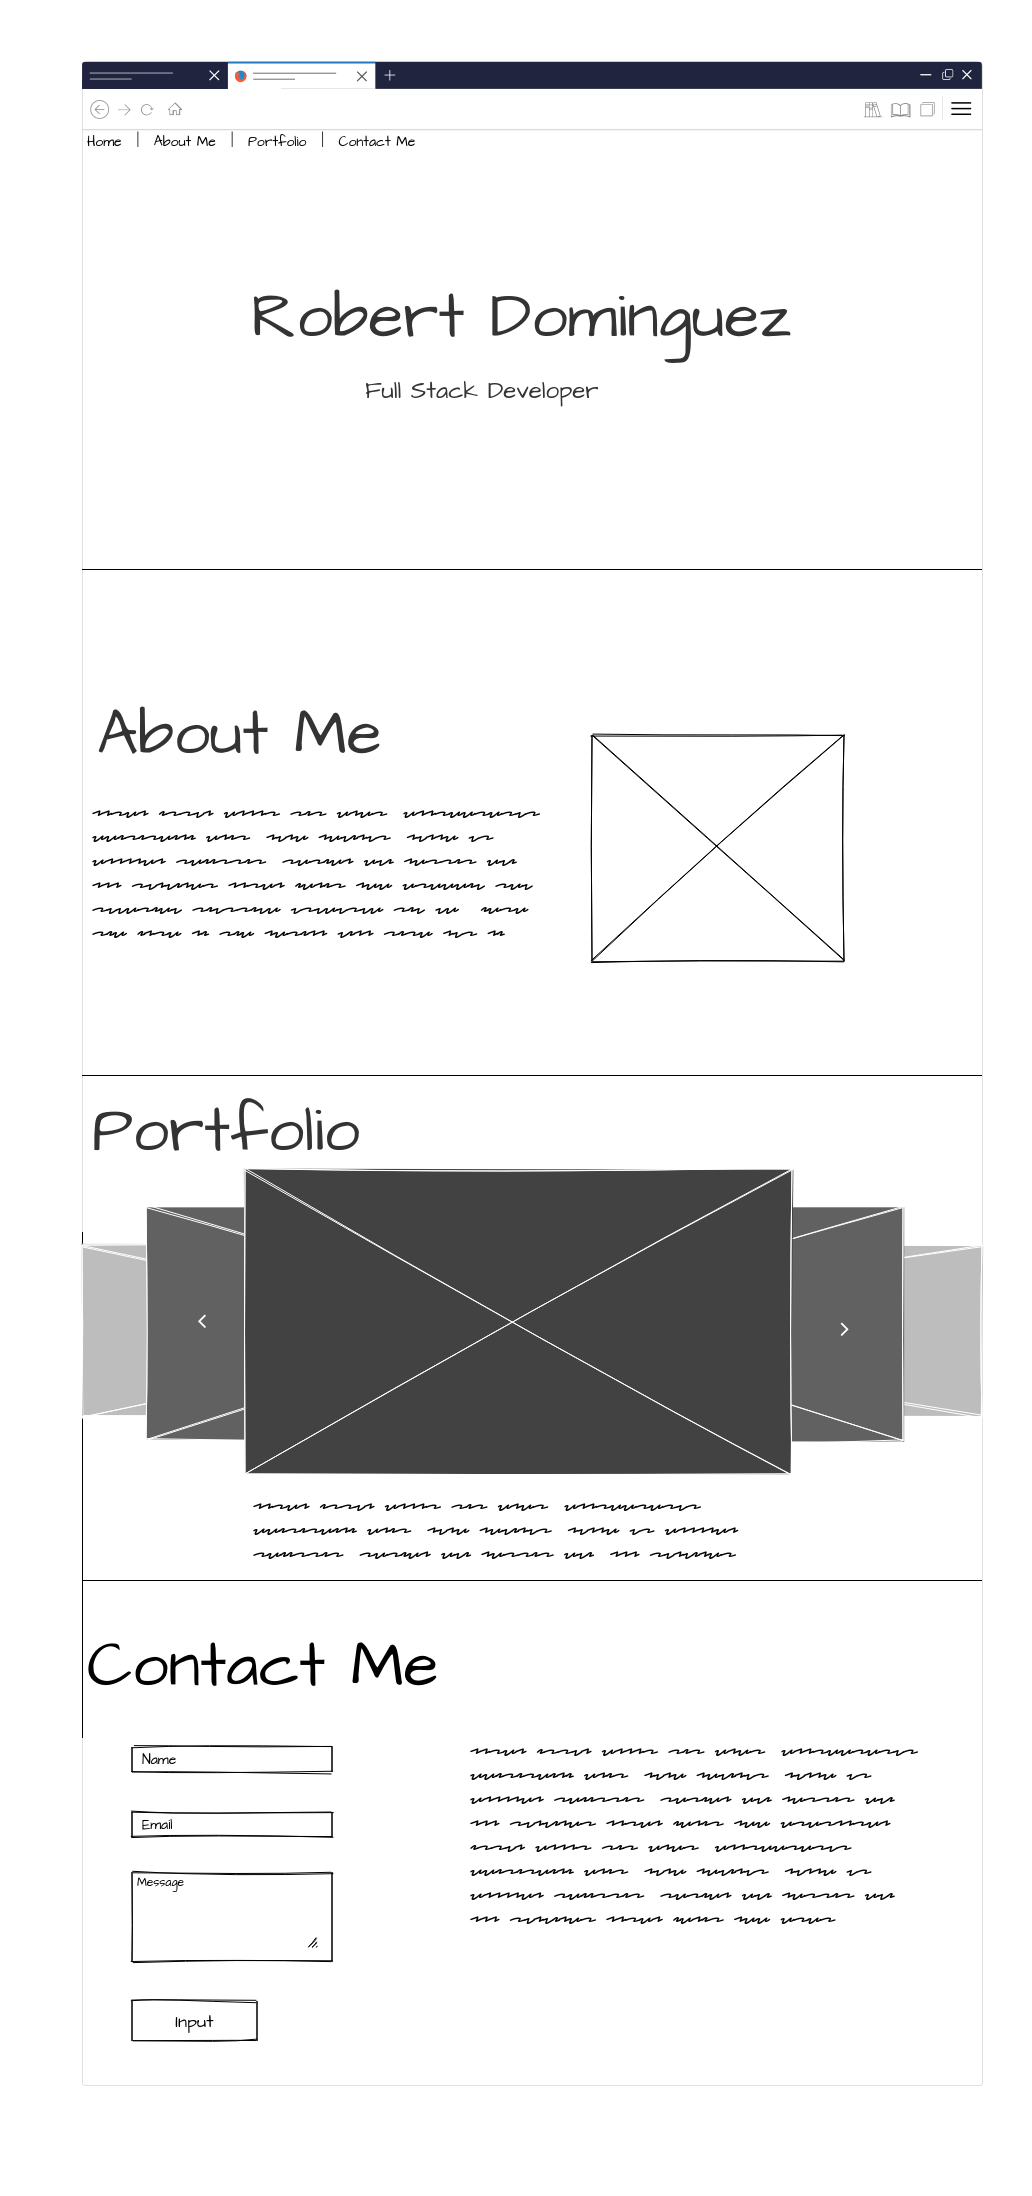
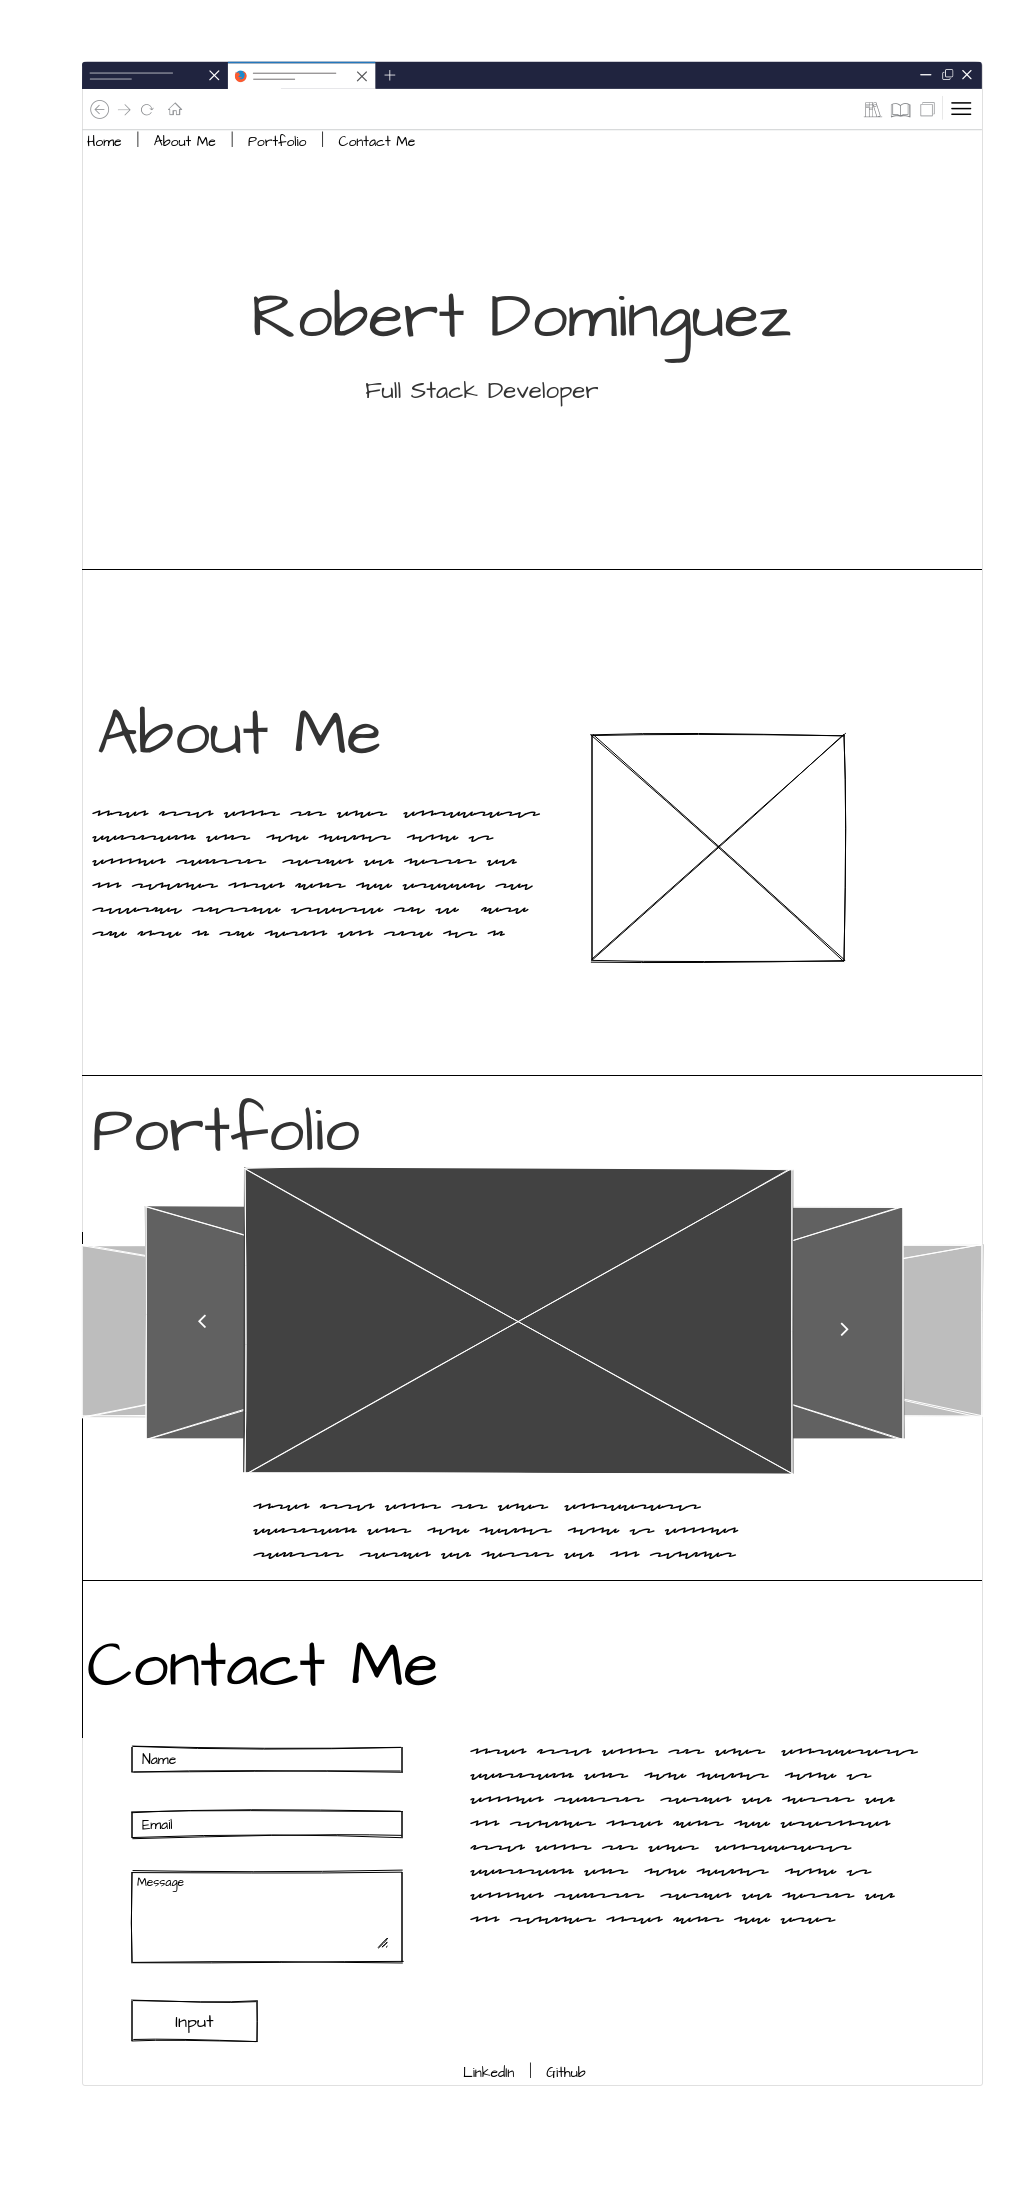
Fixed the images and did some writing.

diff --git a/public_html/documentation/milestone-2.php b/public_html/documentation/milestone-2.php
@@ -8,8 +8,9 @@
 		<div class="Content Strategy">
 			<h1>Content Strategy</h1>
 			<p>
-				My site will be multiple pages, it will have one main page and links to other pages that will host whatever
-				projects that I will want to host on the site. The main page will consist of the following sections:
+				My site will be one page. The one main page will offer information about me, a selection of programming
+				projects that I will want to host on the site, and a form to allow people to contact me. The main page will
+				consist of the following sections:
 			</p>
 			<p>
 				<strong>Welcome: </strong>A brief one-line introduction that clearly states my name and role as a Fullstack
@@ -23,14 +24,16 @@
 				that I am a good personality fit for.
 			</p>
 			<p>
-				<strong>Portfolio: </strong>I want this to be an animated, responsive image gallery containing 4-6 examples
-				of my best work. Gallery pop-up will include my role and contributions to each project, with iconography to
-				represent the technology used.
+				<strong>Portfolio: </strong>I want this to be an responsive gallery containing 2-4 programming projects that
+				I am the most confident in. To the left and right of each project will be an option to allow the user to
+				switch to another project. Under the projects will be text that changes with each project. The text will
+				detail all technologies that I used, languages that made up the project, and challenges and hurdles that I
+				overcame to complete the project.
 			</p>
 			<p>
 				<strong>Contact: </strong>This section will contain a simple contact form, my professional email address,
-				and additional links to my professional social media profiles: LinkedIn, Twitter, GitHub, Dribbble. (These
-				will also be linked to in the footer site wide via icons.)
+				and additional links to my professional social media profiles: LinkedIn, GitHub. (These will also be linked
+				to in the footer site wide via icons.)
 			</p>
 		</div>
 		<div class="wireframe">
@@ -41,6 +44,9 @@
 			</p>
 			<h2>Desktop Wireframe</h2>
 			<img src="Page_1.png" alt="desktop wireframe">
+			<h2>Mobile Wireframe</h2>
+			<img src="Page_2.png" alt="mobile wireframe 1">
+			<img src="Page_3.png" alt="mobile wirefram 2">
 		</div>
 	</body>
 </html>
